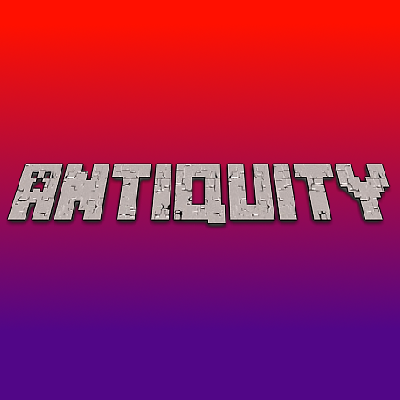
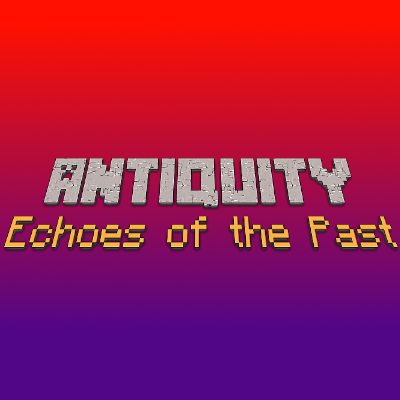
Last minute mod name change because someone has "Antiquity" despite no project exisiting

Changed region(s): [[0.0, 0.39, 1.0, 0.63]]

diff --git a/README.md b/README.md
@@ -1,5 +1,5 @@
-# Antiquity
-Antiquity is a Minecraft mod for 26.2+ that adds a variety of new features based on the historical Antiquity period. 
+# Antiquity: Echoes of the Past
+Antiquity: Echoes of the Past is a Minecraft mod for 26.2+ that adds a variety of new features based on the historical Antiquity period. 
 It includes new blocks, items, and gameplay mechanics that allow players to explore and experience the world of ancient civilizations.  
 
 ## Features
